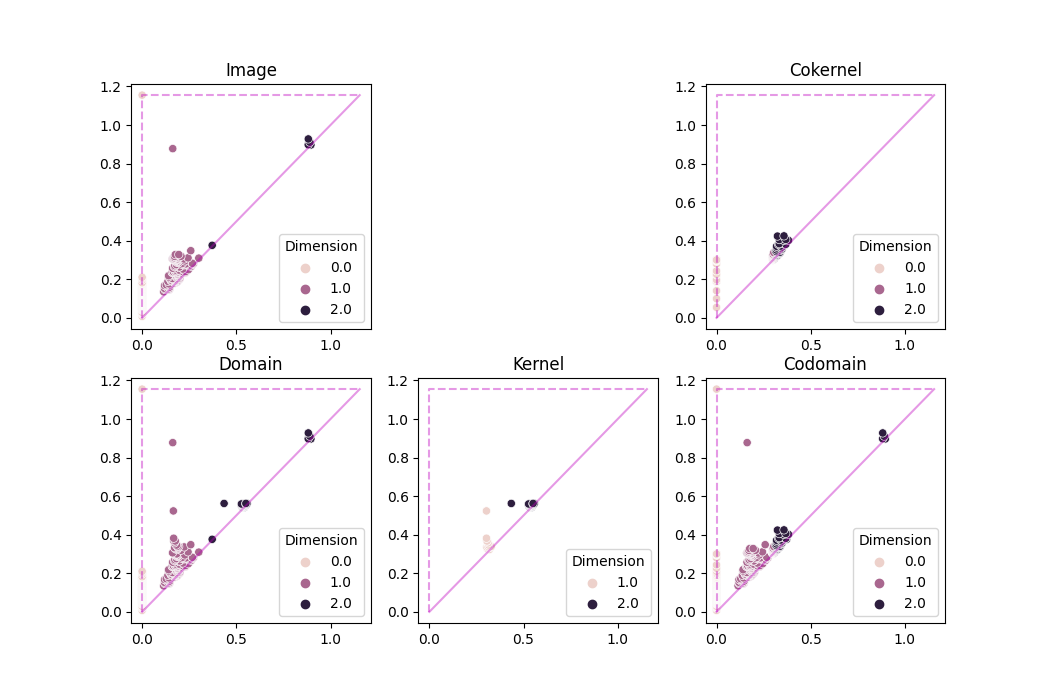
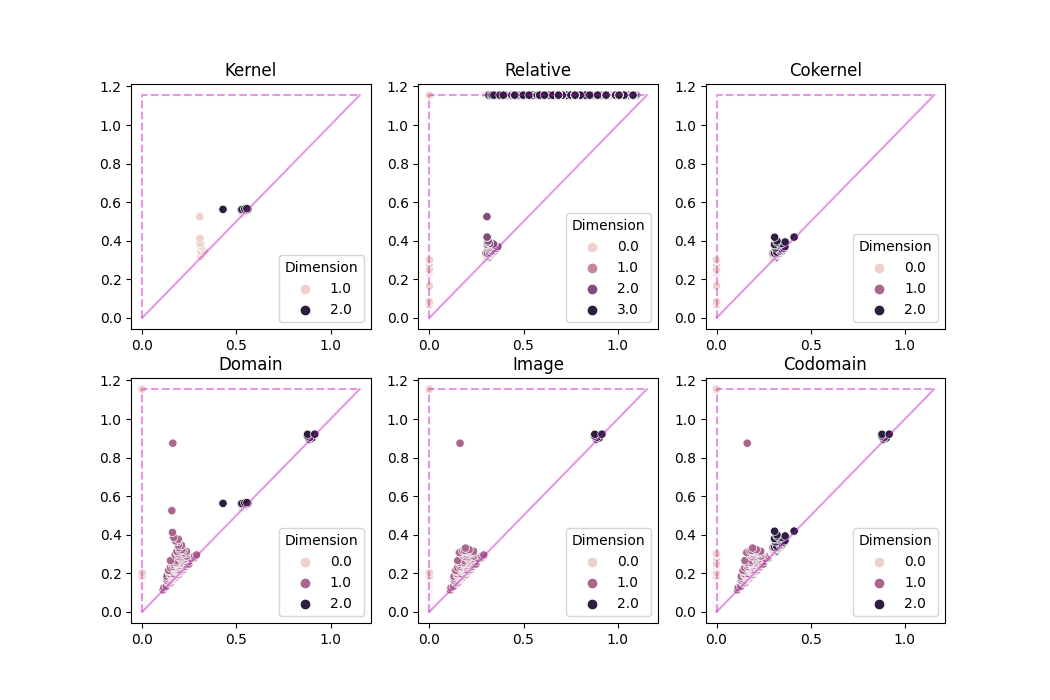
All tests rerun with relative diagrams

diff --git a/torus_test.py b/torus_test.py
@@ -159,10 +159,19 @@ plot_diagram(
     entrance_times,
     dimensions,
     truncation,
-    ax=axes[1][1],
+    ax=axes[0][0],
     title="Kernel",
     dim_shift=1,
     max_dim=max_diagram_dim,
+)
+plot_diagram(
+    dgms.rel,
+    entrance_times,
+    dimensions,
+    truncation,
+    ax=axes[0][1],
+    title="Relative",
+    max_dim=max_diagram_dim + 1,
 )
 plot_diagram(
     dgms.cok,
@@ -187,7 +196,7 @@ plot_diagram(
     entrance_times,
     dimensions,
     truncation,
-    ax=axes[0][0],
+    ax=axes[1][1],
     title="Image",
     max_dim=max_diagram_dim,
 )
@@ -201,5 +210,4 @@ plot_diagram(
     legend=True,
     max_dim=max_diagram_dim,
 )
-fig.delaxes(axes[0][1])
 plt.savefig("5pack_torus.png")
